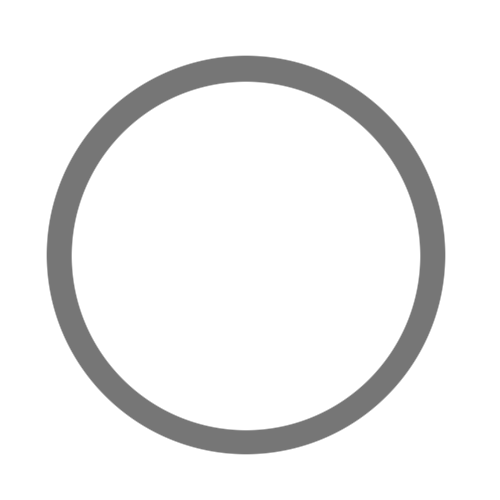
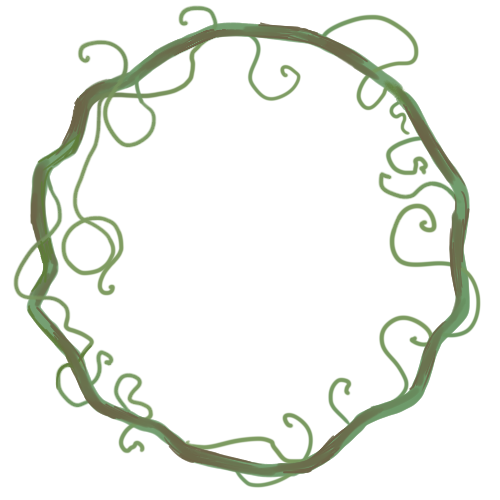
lemonsss

Changed region(s): [[0.03, 0.0, 0.96, 0.99]]

diff --git a/my_phenakistoscope.js b/my_phenakistoscope.js
@@ -1,15 +1,17 @@
-const SLICE_COUNT = 12;
+const SLICE_COUNT = 24;
 let leafSize1 = 80; // Initial size of the first leaf
 let leafSize2 = 40; // Initial size of the second leaf
 
 function setup_pScope(pScope){
-  pScope.output_mode(ANIMATED_DISK);
+  pScope.output_mode(STATIC_DISK);
   pScope.scale_for_screen(true);
   pScope.draw_layer_boundaries(false);
   pScope.draw_slits(false);
-  pScope.set_direction(CCW);
+  pScope.set_direction(CW);
   pScope.set_slice_count(SLICE_COUNT);
+
   pScope.load_image("branchring", "png");
+  pScope.load_image_sequence("lemon", "png", 24);
 }
 
 function setup_layers(pScope){
@@ -28,11 +30,15 @@ function setup_layers(pScope){
   layer3.mode(RING);
   layer3.set_boundary(970,1000)
 
+  var layer4 = new PLayer(lemon);
+  layer4.mode(RING);
+  layer4.set_boundary(0,100)
+
 }
 
 function branchring(x, y, animation, pScope){
   push();
-  scale(3);
+  scale(2.5);
   if(animation.frame == 0){
     pScope.draw_image("branchring", x, y);
   }
@@ -44,26 +50,26 @@ function leaf(x, y, animation, pScope){
   scale(1.5);
 
   // First leaf
-  fill(102, 204, 0);
-  drawLeaf(200, 300, leafSize1);
+  fill(97, 153, 90);
+  drawLeaf(-230, 270, leafSize1);
 
   // Second leaf
-  fill(102, 204, 0);
-  drawLeaf(250, 300, leafSize2);
+  fill(65, 110, 59);
+  drawLeaf(200, -300, leafSize2);
 
   // Increase the size for the next frame and add noise for subtle movement
-  leafSize1 += 0.5; // Adjust growth rate for the first leaf
+  leafSize1 += 0.45; // Adjust growth rate for the first leaf
   leafSize2 += 0.3;
   
-  let leaf1Noise = noise(frameCount * 0.005) * 2 - 1; // Map noise to [-1, 1]
-  let leaf2Noise = noise((frameCount + 100) * 0.005) * 2 - 1; // Different seed for the second leaf
+  let leaf1Noise = noise(frameCount * 0.5) * 2 - 1; // Map noise to [-1, 1]
+  let leaf2Noise = noise((frameCount + 100) * 0.5) * 2 - 1; // Different seed for the second leaf
   
   // Apply noise to leaf positions
-  let leaf1X = 200 + leaf1Noise * 5;
-  let leaf1Y = 300 + leaf1Noise * 5;
+  let leaf1X = 150 + leaf1Noise * 5;
+  let leaf1Y = 280 + leaf1Noise * 5;
   
-  let leaf2X = 250 + leaf2Noise * 5;
-  let leaf2Y = 300 + leaf2Noise * 5;
+  let leaf2X = 300 + leaf2Noise * 5;
+  let leaf2Y = 280 + leaf2Noise * 5;
   
   // Draw leaves with noise-based positions
   drawLeaf(leaf1X, leaf1Y, leafSize1);
@@ -90,4 +96,9 @@ function drawLeaf(x, y, size) {
 
 function ring(x,y, animation, pScope){
   pScope.fill_background(204, 219, 182)
+}
+
+function lemon(x,y,animation,pScope){
+  scale(1);
+  pScope.draw_image_from_sequence("lemon", 550, -200, animation.frame); 
 }
